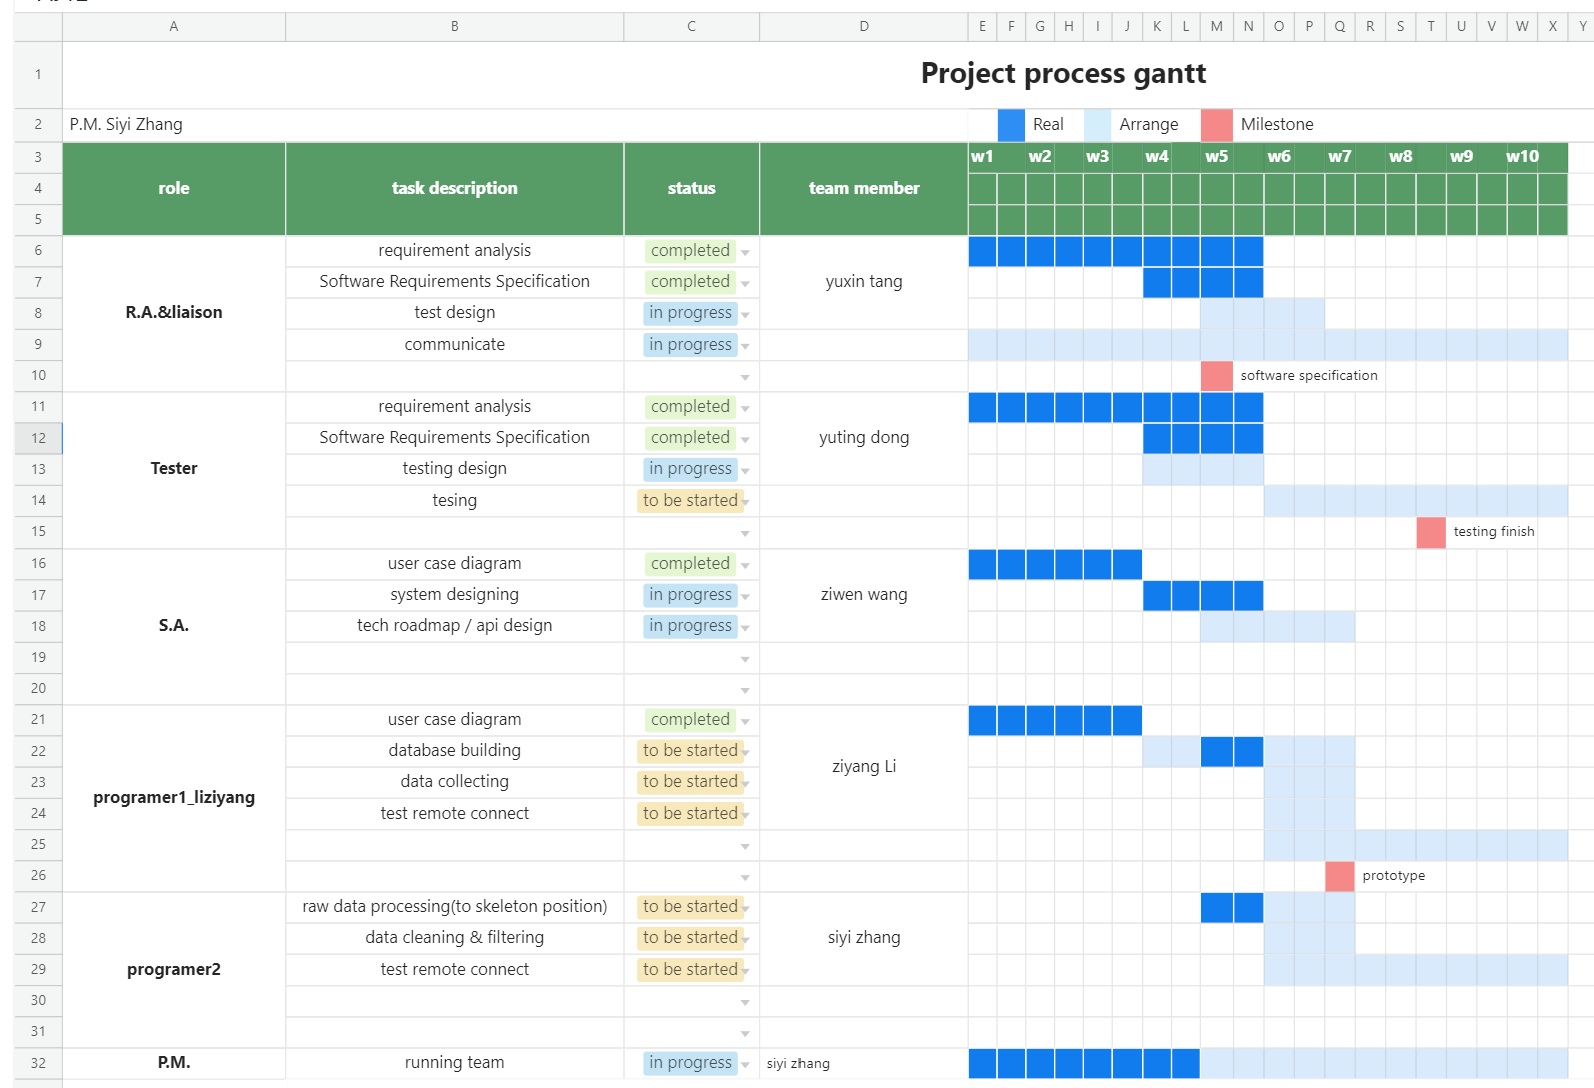
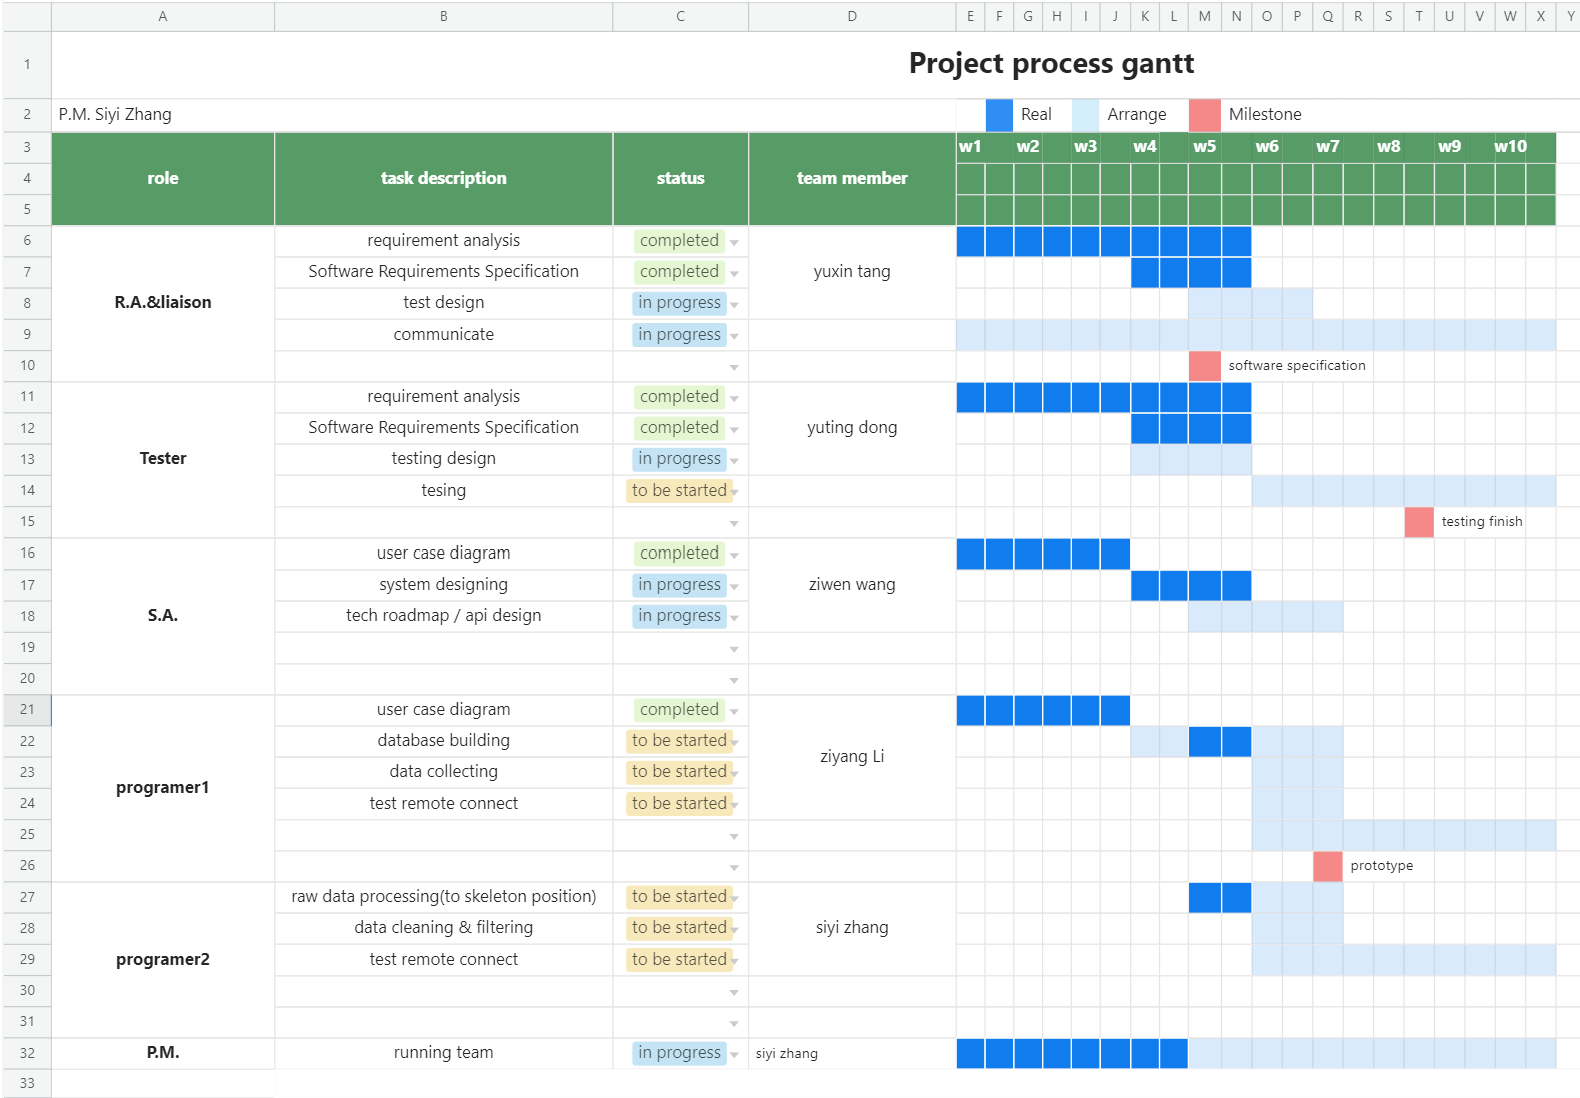
new gantt

diff --git a/index.html b/index.html
@@ -20,6 +20,22 @@
         .mermaid {
             font-family: Arial, sans-serif;
         }
+         /* 新增图片样式控制 */
+        .gantt-image {
+            margin-top: 20px;
+            padding: 20px;
+            background: #7fae42;
+            border: 1px solid #6f0c70;
+            border-radius: 5px;
+        }
+        .gantt-image img {
+            max-width: 100%;  /* 确保图片不超过容器宽度 */
+            height: auto;     /* 保持原始宽高比 */
+            display: block;   /* 移除图片底部空白 */
+            margin: 0 auto;   /* 居中图片 */
+            border: 1px solid #ddd; /* 可选：添加边框 */
+            box-shadow: 0 2px 4px rgba(0,0,0,0.1); /* 可选：添加阴影 */
+        }
     </style>
 
     <!-- Gantt -->
@@ -47,40 +63,9 @@
         <ul id="members-list"></ul>
     </div>
 
-    <div class="gantt-chart">
+    <div class="gantt-image">
         <h2>Project Progress</h2>
-        <div class="mermaid">
-            gantt
-            title Our Gantt
-            dateFormat  YYYY-MM-DD
-            section P.M.
-                Form/run the team          :active,  des1, 2025-03-09, 2025-05-07
-                Real progress              :done,    des1, 2025-03-09, 2025-03-27
-            section Liaison
-                Contact                    :active,  lia1, 2025-03-09, 2025-05-07
-                Real progress              :done,    lia2, 2025-03-09, 2025-03-27
-            section R.A.
-                Requirement Analysis       :active,  ra1, 2025-03-09, 2025-03-30
-                R.A. milestone             :milestone, isadded, 2025-03-30, 0d
-                Real progress              :done,    ra1, 2025-03-09, 2025-03-27
-            section S.A.
-                Interface Design           :active,  sa1, 2025-03-23, 2025-04-06
-                Real progress              :done,    sa2, 2025-03-23, 2025-03-27
-            section Programmer
-                Sensor-app-server connecting app         :active,  pro1, 2025-03-23, 2025-04-06
-                app milestone             :milestone, isadded, 2025-04-06, 0d
-                Real progress              :done,    pro3, 2025-03-23, 2025-03-27
-                Data filtering & noise reduction: active,pro2,  2025-04-06, 2025-04-20
-                Data fusion & Feature extraction: active, pro3, 2025-04-06, 2025-04-20
-                data process milestone             :milestone, isadded, 2025-04-20, 0d
-                Real progress              :done,    tst2, 2025-04-06, 2025-04-06
-            section Tester
-                Test & excute connect             : active, tst1, 2025-03-30, 2025-04-13
-                Real progress              :done,    tst2, 2025-03-30, 2025-03-30
-                Test & excute data                : active, tst1, 2025-04-13, 2025-04-27
-                testing milestone             :milestone, isadded, 2025-04-27, 0d
-                Real progress              :done,    tst2, 2025-04-13, 2025-04-13
-        </div>
+        <img src="./gantt/gantt1.png" alt="Project Gantt Chart">
     </div>
     
     <script>
